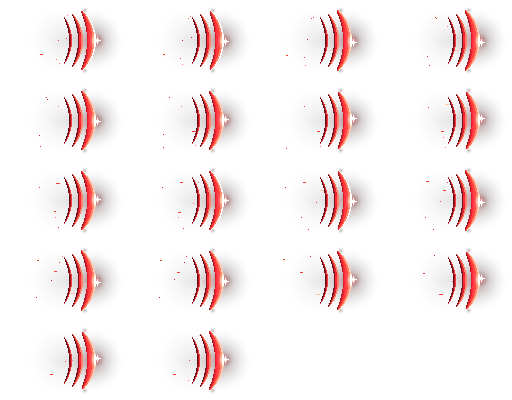
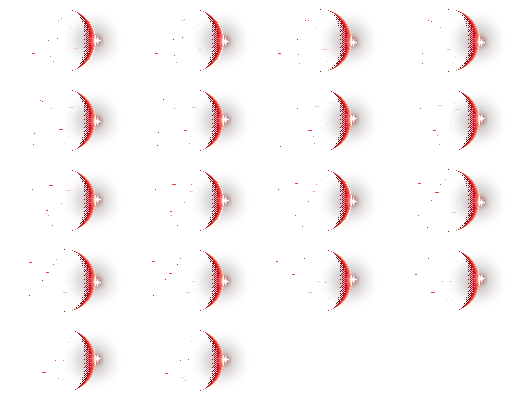
Shorter light arrow; sword wave as one swept crescent
Light arrow: shaft 38 -> 22 px, shorter fletching and trail, canvas 96x32.
Red sword wave: the stacked echo arcs read as brackets; now a thinner crescent with horns that
sweep back and a dithered motion smear behind it.

Claude-Session: https://claude.ai/code/session_0185oZ6r6fULvMuFhSJXetNT

diff --git a/third_party/pixelfx/src/fx/sd/red-sword-wave.js b/third_party/pixelfx/src/fx/sd/red-sword-wave.js
@@ -4,7 +4,7 @@ import { beat } from "../projectiles/_lib.js";
 
 export const meta = {
   name: "Red sword wave",
-  desc: "A crescent of red blade energy flying forward: a white-hot cutting edge, a crimson body thinning to sharp horns, two fainter echoes behind, embers shed from its back.",
+  desc: "A crescent of red blade energy flying forward: a white-hot cutting edge, a crimson body sweeping back to sharp horns, a dithered smear of motion behind, embers.",
   tags: ["projectile", "slash", "sword", "wave", "red", "directional", "loop"],
   size: [128, 80],
   origin: [96, 40],
@@ -40,25 +40,32 @@ export function draw(p, t, o) {
 
   // embers and slivers shed from its back, streaming away and cooling
   beat(t, D, 16, S, (r) => r.range(0.22, 0.4), (age, life, r) => {
-    const k = age / life, yy = r.range(-H, H) * 0.9, x0 = -Math.abs(yy) * 0.45 - 6;
+    const k = age / life, yy = r.range(-H, H) * 0.8, x0 = -16 - Math.abs(yy) * 0.3;
     const x = x0 - age * r.range(90, 160), y = 0.5 + yy + r.range(-1, 1) * age * 30;
     if (x < left) return;
     if (r.chance(0.3)) p.line(x, y, x - 3 * (1 - k) - 1, y, k < 0.4 ? C[6] : C[4]);
     else p.dot(x, y, k < 0.3 ? C[6] : k < 0.6 ? C[5] : k < 0.85 ? C[4] : C[3]);
   });
 
-  // two after-crescents, fainter and further back, breaking up as they fade
-  p.glowLine(-34, 0.5, -10, 0.5, H * 1.4, C[2], 0.18);
-  crescent(p, C, -24, 40, 3, Math.round(H * 0.8), 0.35, false);
-  crescent(p, C, -13, 40, 5, Math.round(H * 0.9), 0.65, false);
-
-  // the wave: a pulse of white runs over its edge twice a loop; it breathes a pixel
-  const pulse = ((ph * 2) % 1) < 0.18;
-  crescent(p, C, 0, 40 + wob, 9, H + Math.round(wob * 0.6), 1, pulse);
+  // the wave: a sharp crescent whose horns sweep back, and behind it the smear of its own motion, fading back
+  // through dark reds in an ordered dither (no separate echoes)
+  const R = H + 1, pulse = ((ph * 2) % 1) < 0.18, h = H + Math.round(wob * 0.6);
+  p.shade(-R - 26, -h - 1, 2, h + 1, (x, y) => {
+    const yy = y - 0.5;
+    if (Math.abs(yy) > h) return;
+    const xo = -R + Math.sqrt(Math.max(0, R * R - yy * yy));
+    const back = 13 * Math.pow(Math.max(0, 1 - (yy / h) ** 2), 0.8);  // the smear is longest in the middle, nothing at the horns
+    const u = (xo - x) / Math.max(1, back);
+    if (u < 0 || u > 1) return;
+    const bayer = [0, 8, 2, 10, 12, 4, 14, 6, 3, 11, 1, 9, 15, 7, 13, 5][(Math.floor(x) & 3) + (Math.floor(y) & 3) * 4] / 16;
+    if (u > 0.35 && bayer < (u - 0.35) / 0.65) return;
+    return u < 0.35 ? C[3] : u < 0.65 ? C[2] : C[1];
+  });
+  crescent(p, C, 0, R, 5, h, 1, pulse);
 
   // the light: a red bloom on the body, a hot glint on the edge and at each horn
   p.glow(-3, 0.5, H * 1.1, C[3], 0.55);
   p.glow(1, 0.5, 8, C[6], 0.35);
   sparkle(p, 1, 0.5 + wob * 2, 3, WHITE, C[6], 0.45);
-  for (const s of [-1, 1]) p.glow(-H * H / 80, 0.5 + s * H, 4, C[5], 0.35);
+
 }

diff --git a/third_party/pixelfx/src/fx/sd/light-arrow.js b/third_party/pixelfx/src/fx/sd/light-arrow.js
@@ -6,13 +6,13 @@ export const meta = {
   name: "Light arrow",
   desc: "An arrow of light in flight: a white-hot head rimmed in gold, a shaft of light, fletchings like small wings, a ribbon of light behind shedding motes and glints.",
   tags: ["projectile", "arrow", "holy", "light", "directional", "loop"],
-  size: [136, 36],
-  origin: [116, 18],
+  size: [96, 32],
+  origin: [80, 16],
   duration: 0.6,
   loop: true,
   fps: 30,
   bg: "sky",
-  options: { palette: ["#3a2410", "#7a5226", "#c08a3e", "#e8b85a", "#f8dc8c", "#fff0c4", "#fffbec", "#ffffff"], length: 38, seed: 5 },
+  options: { palette: ["#3a2410", "#7a5226", "#c08a3e", "#e8b85a", "#f8dc8c", "#fff0c4", "#fffbec", "#ffffff"], length: 22, seed: 5 },
 };
 
 export function draw(p, t, o) {
@@ -20,12 +20,12 @@ export function draw(p, t, o) {
   const left = -meta.origin[0] + 2;
 
   // the ribbon of light behind: a thin wavering band that thins and cools as it trails off
-  for (let d = L * 0.55; d < L * 2.1; d += 0.5) {
-    const u = (d - L * 0.55) / (L * 1.55), y = 0.5 + Math.sin(d * 0.22 - ph * TAU * 2) * (0.4 + u * 1.6);
+  for (let d = L * 0.8; d < L * 2.4; d += 0.5) {
+    const u = (d - L * 0.8) / (L * 1.6), y = 0.5 + Math.sin(d * 0.22 - ph * TAU * 2) * (0.4 + u * 1.6);
     if (-d < left || rand(Math.floor(d), fr) < u * 0.55) continue;
     p.dot(-d, y, u < 0.25 ? C[6] : u < 0.55 ? C[5] : C[4]);
   }
-  p.glowLine(-L * 0.5, 0.5, -L * 1.9, 0.5, 6, C[4], 0.22);
+  p.glowLine(-L * 0.8, 0.5, -L * 2.2, 0.5, 5, C[4], 0.2);
 
   // motes shed off the shaft: they drift back and fade; a few wink as glints
   beat(t, D, 12, S, (r) => r.range(0.2, 0.34), (age, life, r) => {
@@ -46,10 +46,10 @@ export function draw(p, t, o) {
   // fletchings of light at the tail: two feathers swept back, a bright spine and a soft vane, flickering
   const fl = 0.85 + 0.15 * Math.sin(ph * TAU * 3);
   for (const s of [-1, 1]) {
-    for (let k = 0; k < 10; k++) {
-      const x = -L + 2 - k, sp = 1.5 + k * 0.5 * fl, y = 0.5 + s * sp;
-      p.dot(x, y, k < 4 ? C[6] : C[5]);                                 // the spine
-      for (let v = 1.5; v < sp; v += 1) p.dot(x + 1, 0.5 + s * v, k < 5 ? C[4] : C[3]);   // the vane
+    for (let k = 0; k < 7; k++) {
+      const x = -L + 2 - k, sp = 1.5 + k * 0.55 * fl, y = 0.5 + s * sp;
+      p.dot(x, y, k < 3 ? C[6] : C[5]);                                 // the spine
+      for (let v = 1.5; v < sp; v += 1) p.dot(x + 1, 0.5 + s * v, k < 4 ? C[4] : C[3]);   // the vane
     }
   }
   p.glow(-L - 4, 0.5, 9, C[4], 0.32 * fl);
